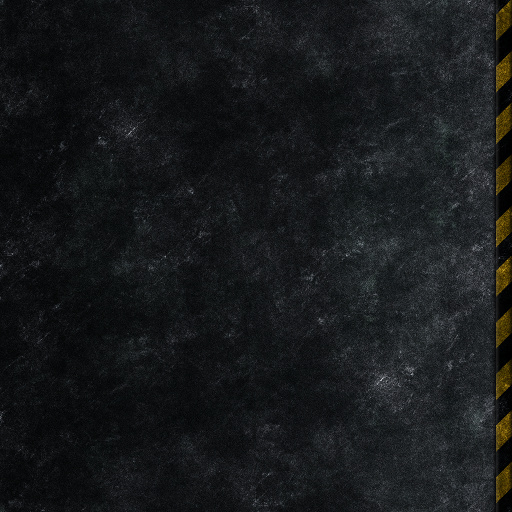
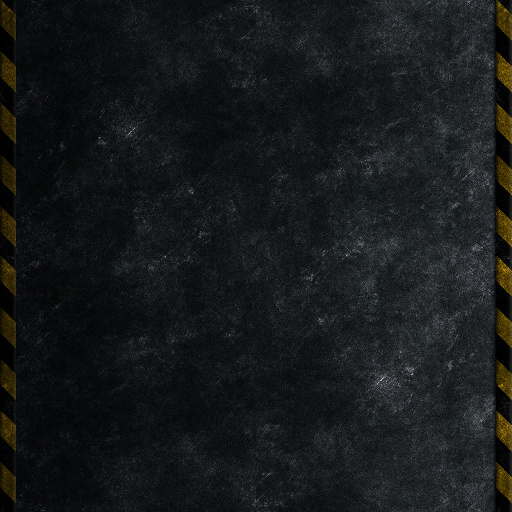
pimping the welcome-screen

diff --git a/src/static/style.css b/src/static/style.css
@@ -38,6 +38,10 @@
     100% { left: 0; }
 }
 
+@keyframes slideMenu {
+    100% { top: 0; }
+}
+
 @keyframes slideCanvas {
     100% { right: 10px; }
 }
@@ -108,10 +112,71 @@ body{
     left: -320px;
 }
 
-.configuration h2:first-child{
-    margin-top: 0;
+.menupanel {
+    padding: 1em;
+    width: 512px;
+    height: 100%;
+    margin: auto;
+    position: relative;
+    background-color: grey;
+    background-image: url(img/panel.jpg);
+    background-repeat: repeat-y;
+
+    animation: slideMenu 0.5s forwards;
+    animation-delay: 0.3s;
+    top: -100%;
+    text-align: center;
+}
+
+.menupanel ul {
+    margin: 0;
+    padding: 0;
+    margin-top: 3em;
+    list-style-type: none;
+}
+.menupanel li {
+    margin: 0;
+    padding: 0;
+    color: black;
+    font-size: 1.3em;
+    text-shadow: 0 0 5px white;
+}
+
+.menupanel li a {
+    background-image: url(img/menubtn.png);
+    width: 372px;
+    height: 77px;
+    line-height: 77px;
+    display: inline-block;
+}
+
+.menupanel li:hover a {
+    background-image: url(img/menubtn-hover.png);
+}
+
+.menupanel li:active a {
+    background-image: url(img/menubtn-active.png);
+    line-height: 82px;
+}
+
+h1, h2, h3, h4, h5, h6 {
     text-shadow: 0 0 5px #338800,
                 0 0 10px #00ff00;
+}
+
+h1.inverse, h2.inverse, h3.inverse, h4.inverse, h5.inverse, h6.inverse {
+    color: black;
+    text-shadow: 0 0 2px white,
+                0 0 5px #338800,
+                0 0 10px #00ff00;
+}
+
+.centered {
+    text-align: center;
+}
+
+.configuration h2:first-child{
+    margin-top: 0;
 }
 
 .configuration label{

diff --git a/src/templates/welcome.html b/src/templates/welcome.html
@@ -6,8 +6,14 @@
 		<script type="application/javascript" src="/static/cursor.js"></script>
 	</head>
 	<body>
-		<ul>
-			<li><a href="/new">Neues Spiel starten</a></li>
-		</ul>
+		<div class="wrapper">
+			<div class="menupanel">
+				<h1 class="centered">rubbrl4zr</h1>
+				<h3 class="centered inverse">Rubber Laser Space Fight</h3>
+				<ul class="menu">
+					<li><a>Start a new Game</a></li>
+				</ul>
+			</div>
+		</div>
 	</body>
 </html>
